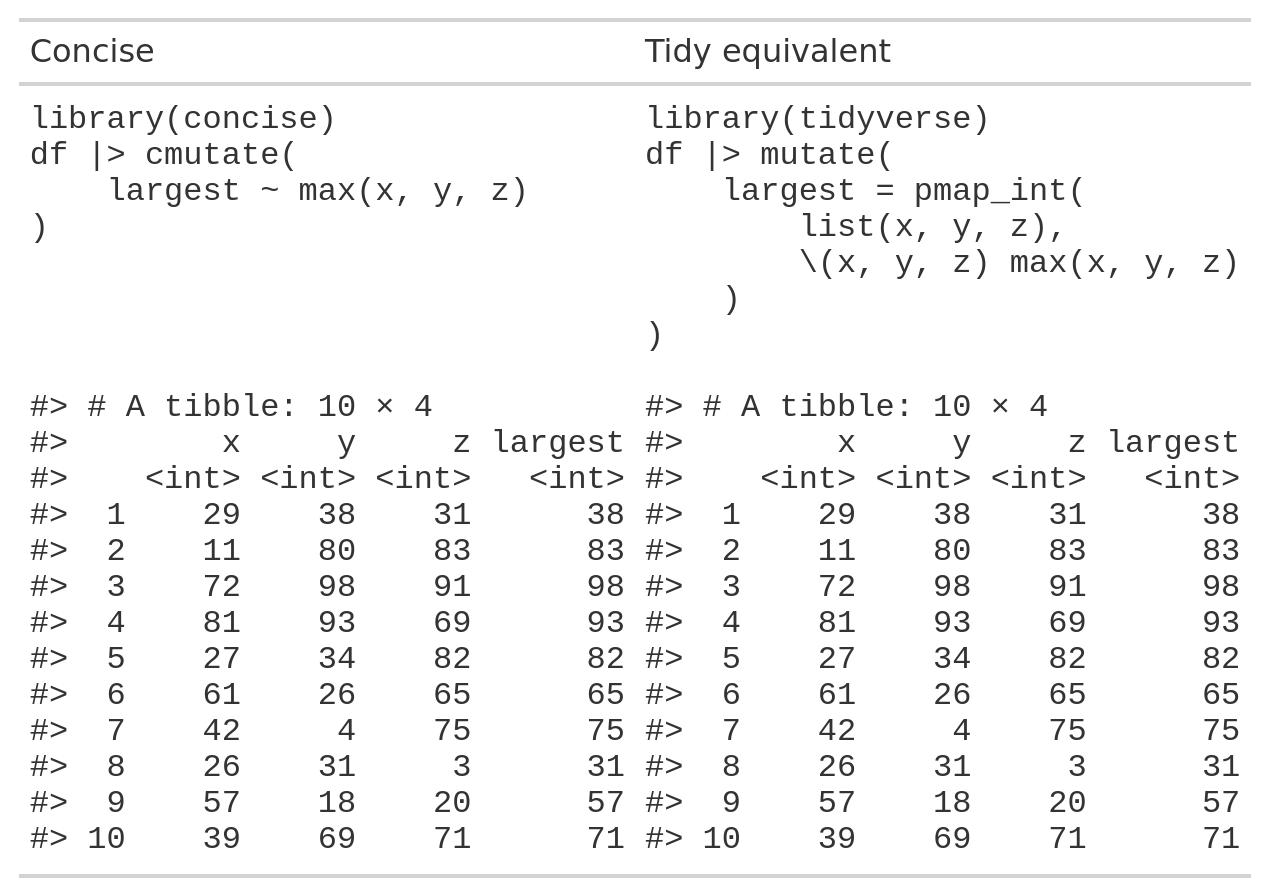
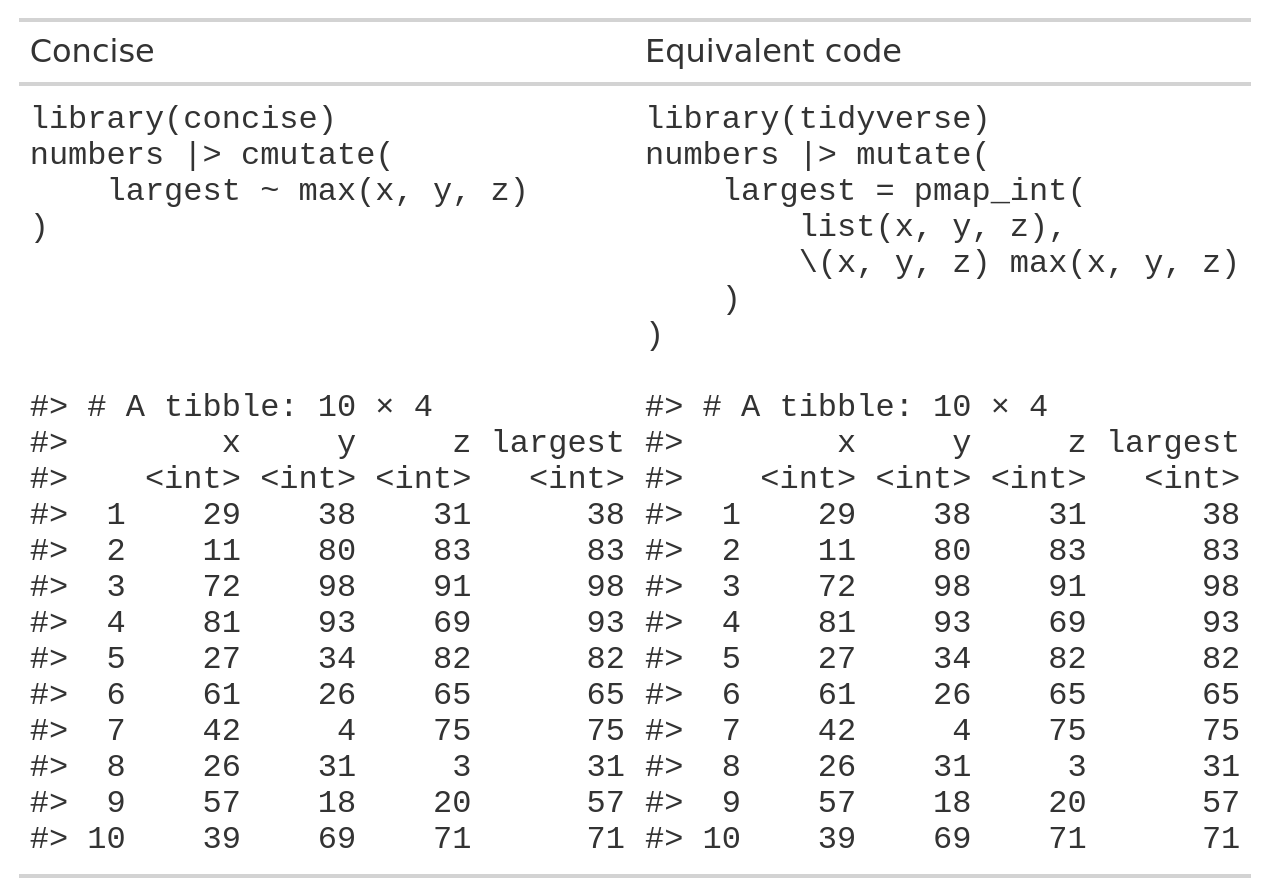
Add moving avg to readme examples; change titles of table1

Changed region(s): [[0.4913, 0.0312, 0.7063, 0.0938], [0.4913, 0.1562, 0.7677, 0.1875], [0.0307, 0.1562, 0.3071, 0.1875]]

diff --git a/README.md b/README.md
@@ -16,6 +16,9 @@ paragraph’s worth of code into a single line.
 
 - Refer to data columns directly – avoid placeholder pronouns like `.x`
   or `..1` and instead refer to your data by name.
+- Leverages `purrr`’s mapping functions to outperform slow
+  `dplyr::rowwise` operations and facilitate non-rowwise column
+  mutations in the same call.
 - Helpful shorthand gives access to vector properties like row number,
   vector length and the vector names inside the iterative function.
 - Interact with and preserve groups created by `dplyr::group_by`.
@@ -46,10 +49,8 @@ row-by-row basis.
 
 ``` r
 library(concise)
-library(dplyr)
-library(purrr)
 
-tibble(value = list("a", "b", NULL, "d", NULL)) |>
+tibble::tibble(value = list('a', 'b', NULL, 'd', NULL)) |>
     cmutate(value_exists ~ is.null(value))
 #> # A tibble: 5 × 2
 #>   value     value_exists
@@ -61,12 +62,36 @@ tibble(value = list("a", "b", NULL, "d", NULL)) |>
 #> 5 <NULL>    TRUE
 ```
 
-#### Examples
-
-Find the largest value out of three columns…
+As with `dplyr::mutate`, ordinary column mutations can also be called
+with `=`, and multiple mutations can be called at once, able to make
+reference to columns created within the same function call:
 
 ``` r
-df <- tibble::tibble(
+library(tidyverse)
+
+expand_grid(
+    word = c('banana', 'canal barge'),
+    expression = c('.an', 'ba.')
+) |> cmutate(
+    substring ~ str_extract(word, expression),
+    first_three = str_extract(word, "^\\w{3}"),
+    concat = paste(word, first_three, sep = substring)
+)
+#> # A tibble: 4 × 5
+#>   word        expression substring first_three concat           
+#>   <chr>       <chr>      <chr>     <chr>       <chr>            
+#> 1 banana      .an        ban       ban         bananabanban     
+#> 2 banana      ba.        ban       ban         bananabanban     
+#> 3 canal barge .an        can       can         canal bargebancan
+#> 4 canal barge ba.        bar       can         canal bargebancan
+```
+
+#### Examples
+
+##### Find the mean of multiple columns:
+
+``` r
+numbers <- tibble(
     x = c(29L, 11L, 72L, 81L, 27L, 61L, 42L, 26L, 57L, 39L),
     y = c(38L, 80L, 98L, 93L, 34L, 26L, 4L, 31L, 18L, 69L),
     z = c(31L, 83L, 91L, 69L, 82L, 65L, 75L, 3L, 20L, 71L)
@@ -79,6 +104,32 @@ df <- tibble::tibble(
 height="448" />
 
 </div>
+
+##### Calculate a moving average of the three latest entries:
+
+`concise` allows the use of special pronouns to refer to things like the
+row index (`.i`), the final row index of the data (`.n`), or the entire
+column as a vector (`<column_name>.col`). These can be used to make
+simple, intelligible window functions.
+
+``` r
+numbers |> cmutate(
+    avg_x ~ mean(x.col[max(.i - 3, 1):.i])
+)
+#> # A tibble: 10 × 4
+#>        x     y     z avg_x
+#>    <int> <int> <int> <dbl>
+#>  1    29    38    31  29  
+#>  2    11    80    83  20  
+#>  3    72    98    91  37.3
+#>  4    81    93    69  48.2
+#>  5    27    34    82  47.8
+#>  6    61    26    65  60.2
+#>  7    42     4    75  52.8
+#>  8    26    31     3  39  
+#>  9    57    18    20  46.5
+#> 10    39    69    71  41
+```
 
 ### `rmap`
 
